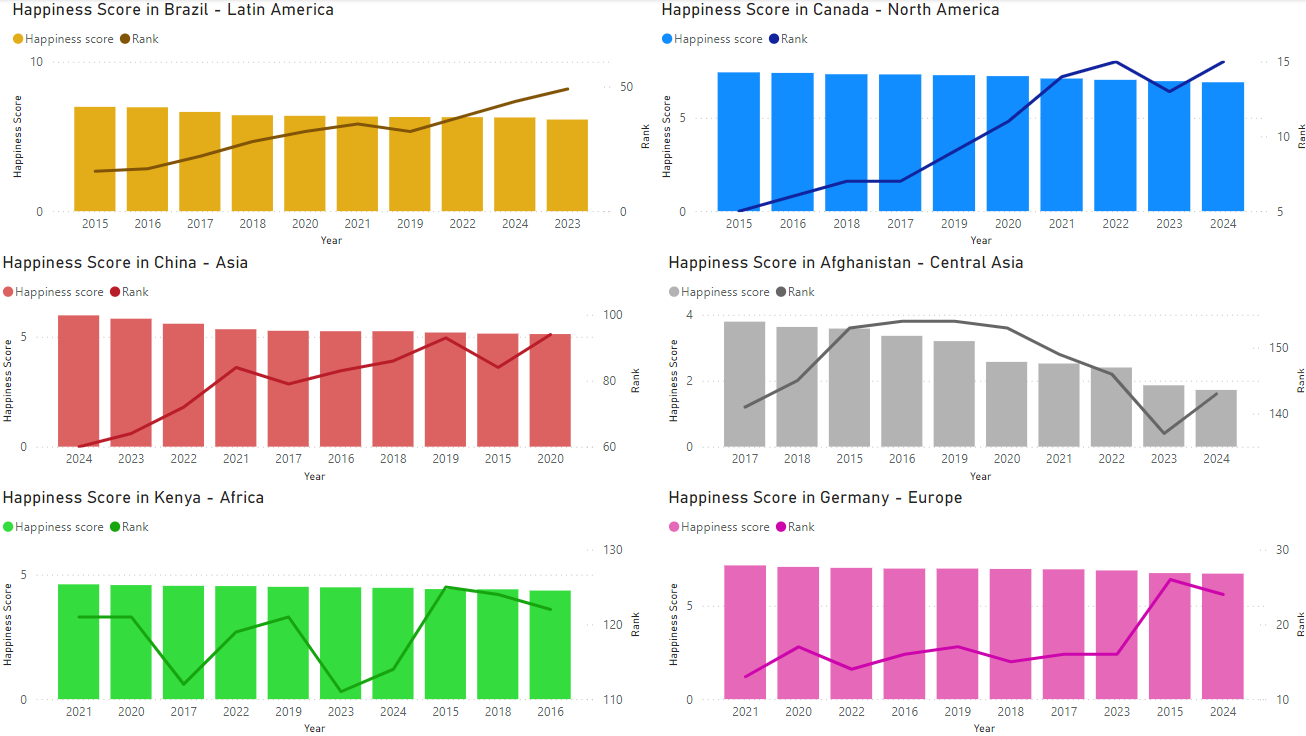
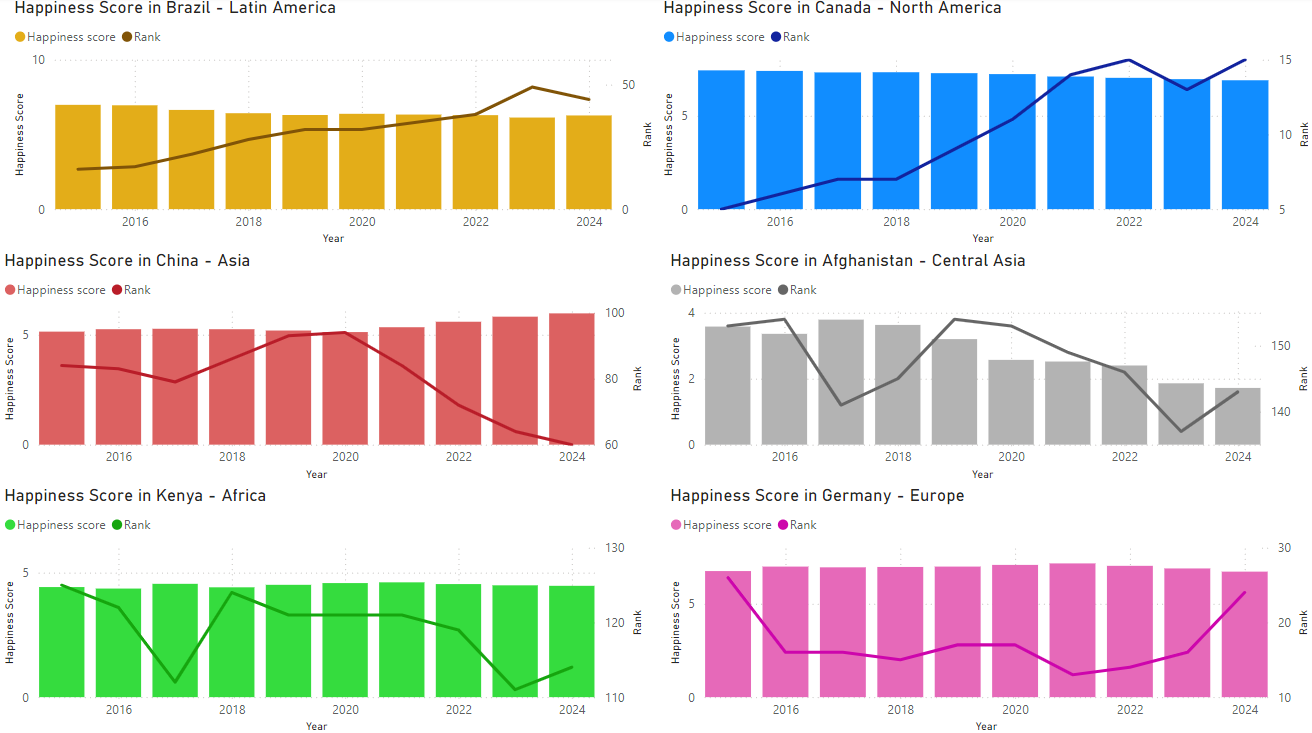
add all

diff --git a/World-happiness/README.md b/World-happiness/README.md
@@ -114,6 +114,12 @@ After verifying that no null values remained, I imported the dataset into SQL Se
 
 <br>
 
+<p>These visuals showcase six countries, each representing a different region. The bar chart displays each country's happiness score over the years, while the line chart illustrates their ranking over time (with lower values indicating higher ranks). These charts highlight that a country’s happiness score alone does not determine its global ranking. For example, Germany's score remained steady over the decade, yet its rank dropped below 20 by 2024. Canada similarly experienced a gradual decline in ranking despite relatively stable happiness scores. In contrast, countries like Kenya and Afghanistan show greater fluctuations in their rankings over the period.
+
+![image.png](/World-happiness/Images/image15.png)
+
+<br>
+
 ## Pivot table to get information
 
 Ranking by region.
@@ -136,4 +142,4 @@ Elements over the year.
 
 ## Conclusion
 
-<p>The World Happiness Report offers a compelling view of global happiness trends, highlighting how GDP per capita, social support, healthy life expectancy, and personal freedoms contribute to higher happiness scores across countries. Nations with strong economic foundations and social support, such as those in Europe, East Asia and Latin America, consistently rank among the happiest. Conversely, countries in regions like South Asia and Africa, often facing greater economic and social challenges, appear more frequently among the least happy.
+<p>The World Happiness Report offers valuable insights into the factors influencing global happiness across different regions. The analysis reveals a strong correlation between happiness and elements like GDP per capita, social support, healthy life expectancy, and freedom to make life choices. However, it also highlights that higher happiness scores don’t necessarily translate into top rankings; even countries with stable scores, like Germany and Canada, saw their ranks decline over time. Conversely, countries with fluctuating scores, such as Kenya and Afghanistan, experienced notable shifts in their global positions. This underscores that while economic and social support factors are essential, other dynamics also play crucial roles in determining happiness and rank stability across nations.
